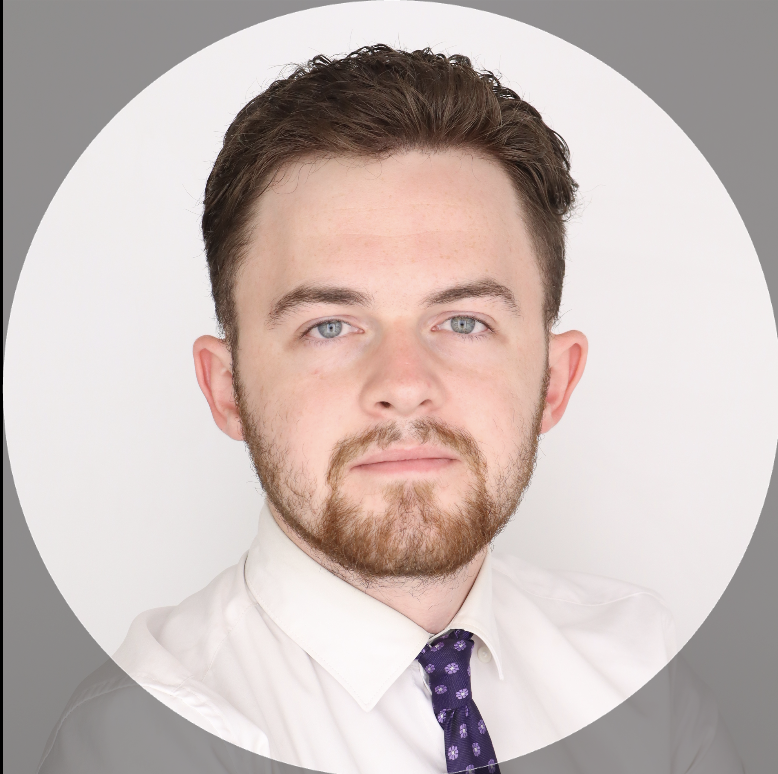
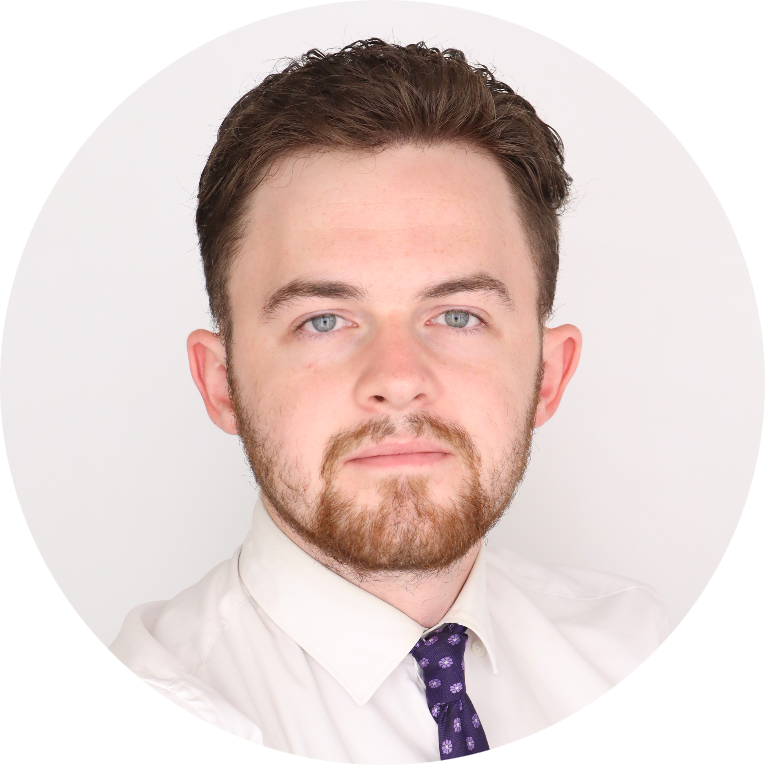
yes

diff --git a/index.html b/index.html
@@ -234,7 +234,7 @@
                 <!-- End .project -->
                 <div class="project shadow-large">
                     <div class="project-image">
-                        <img src="images/project3.jpg" style= "max-width: auto;" width="auto" />
+                        <img src="images/project3.jpg" />
                     </div>
                     <!-- End .project-image -->
                     <div class="project-info">
